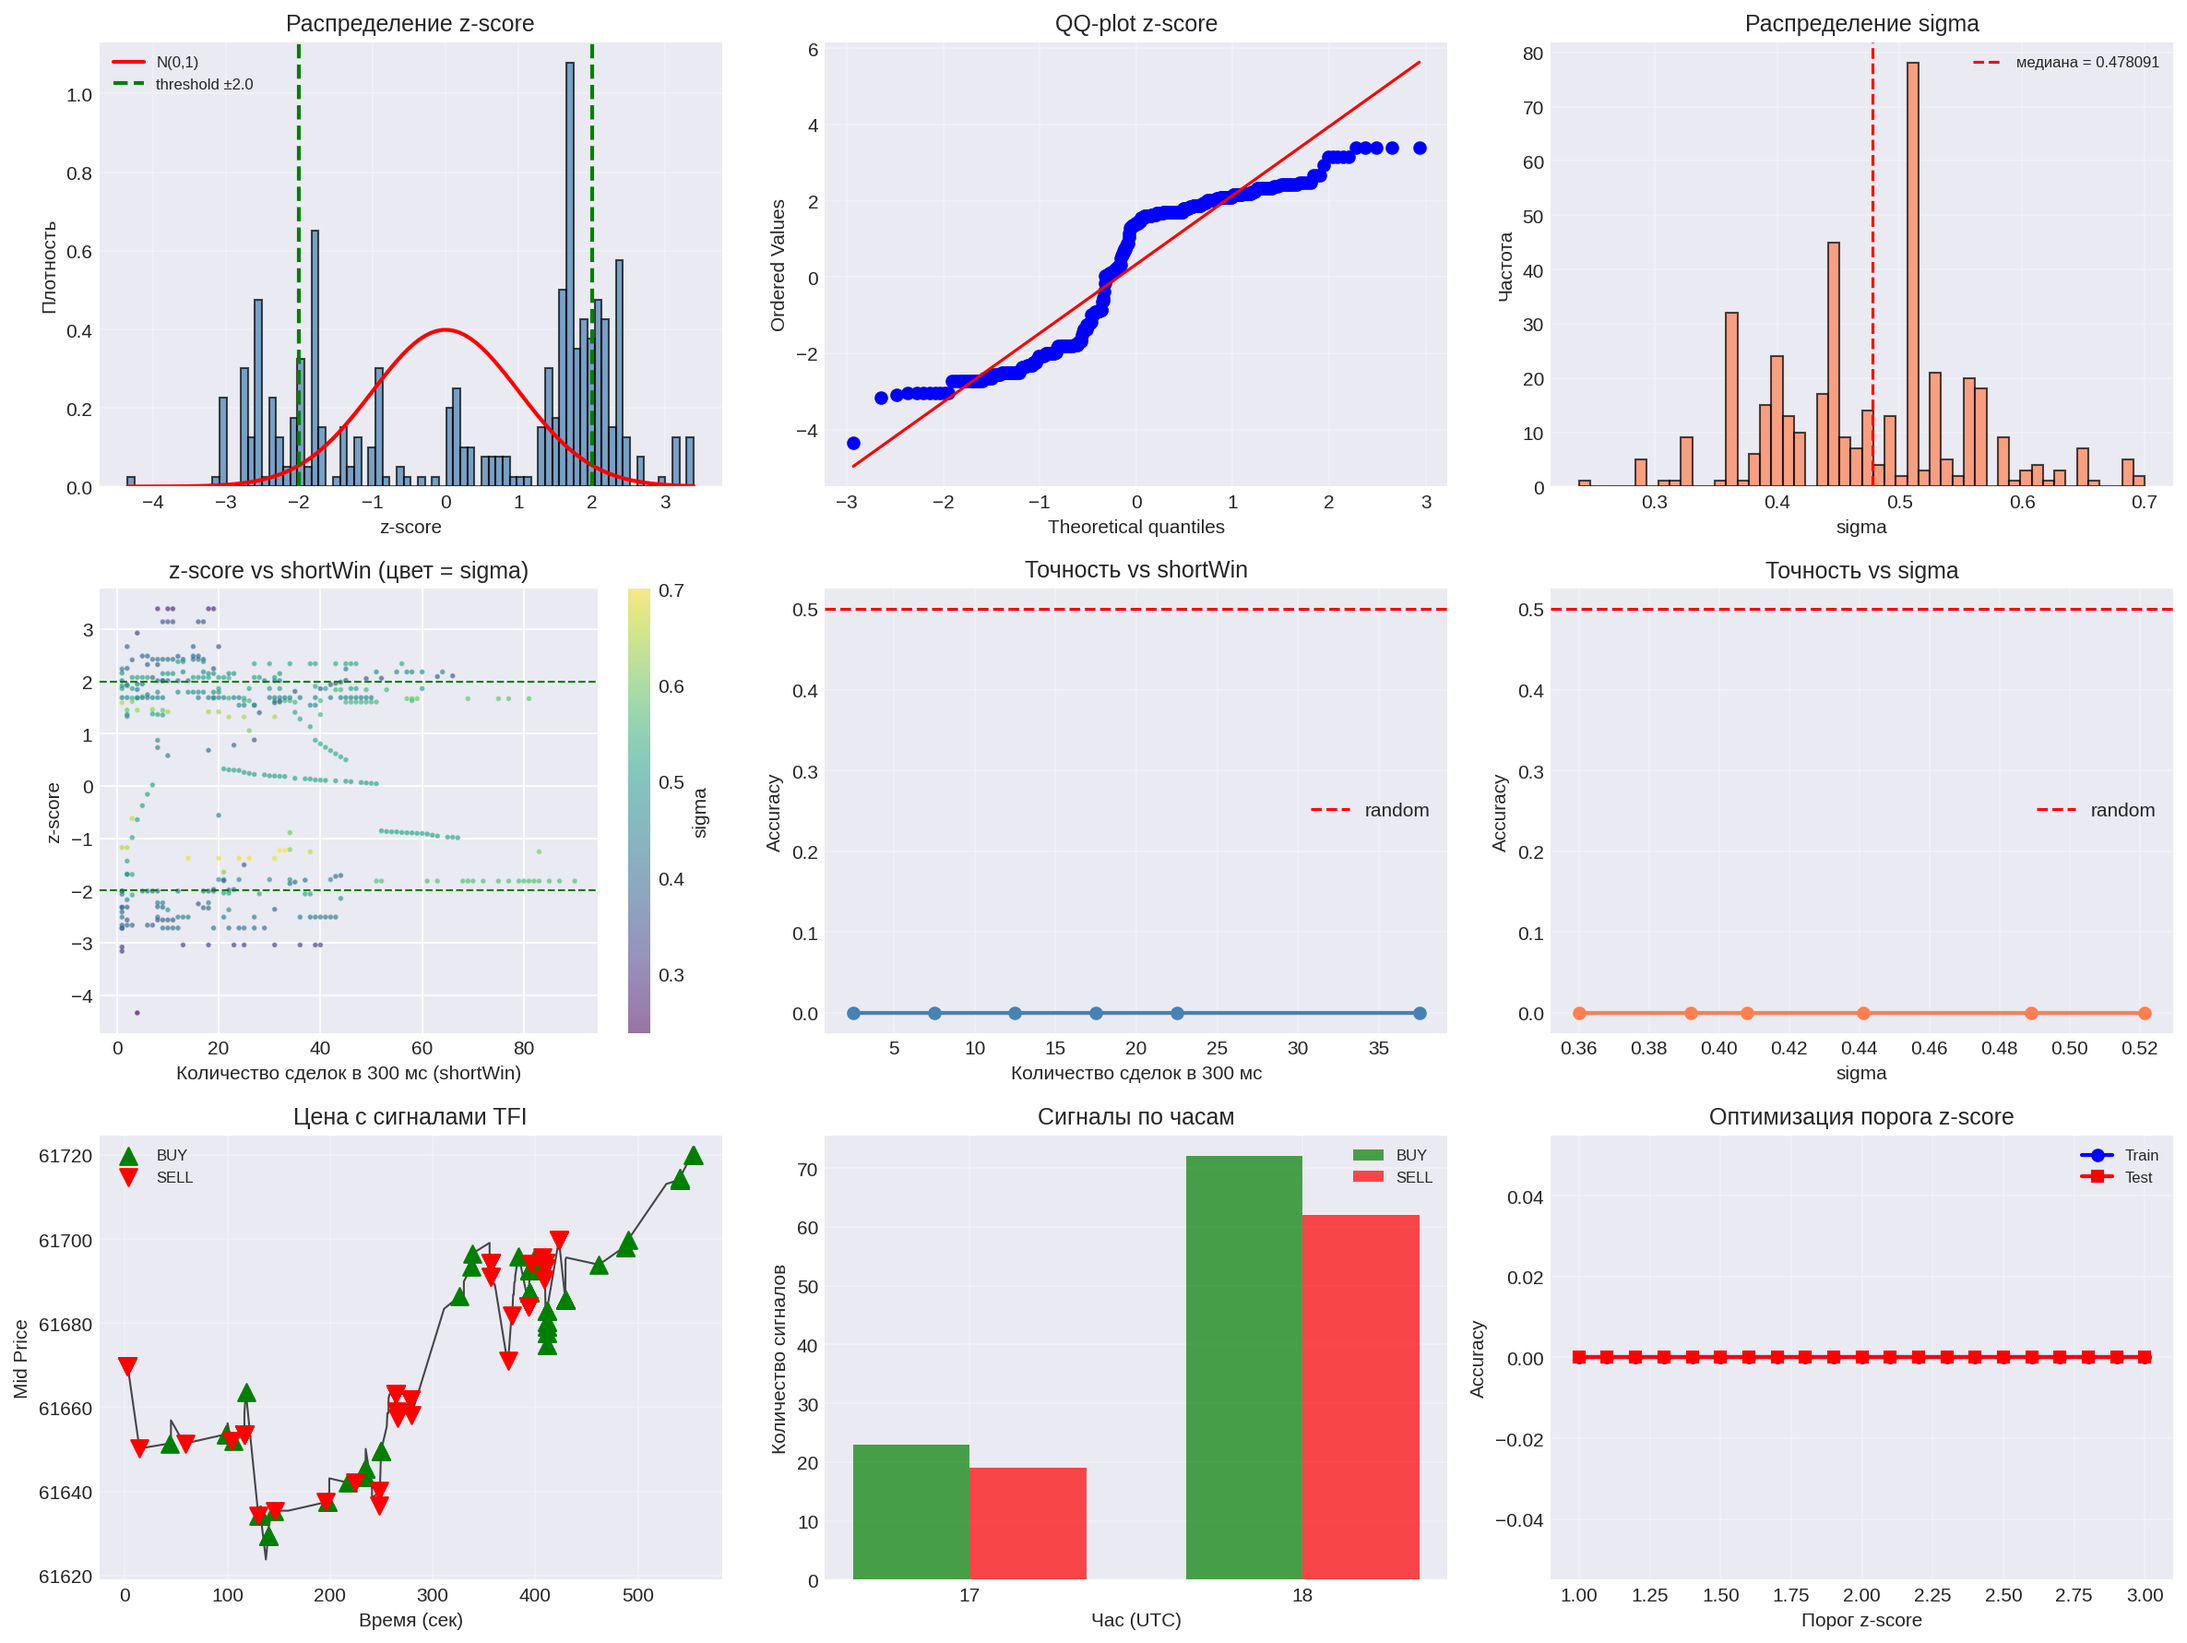
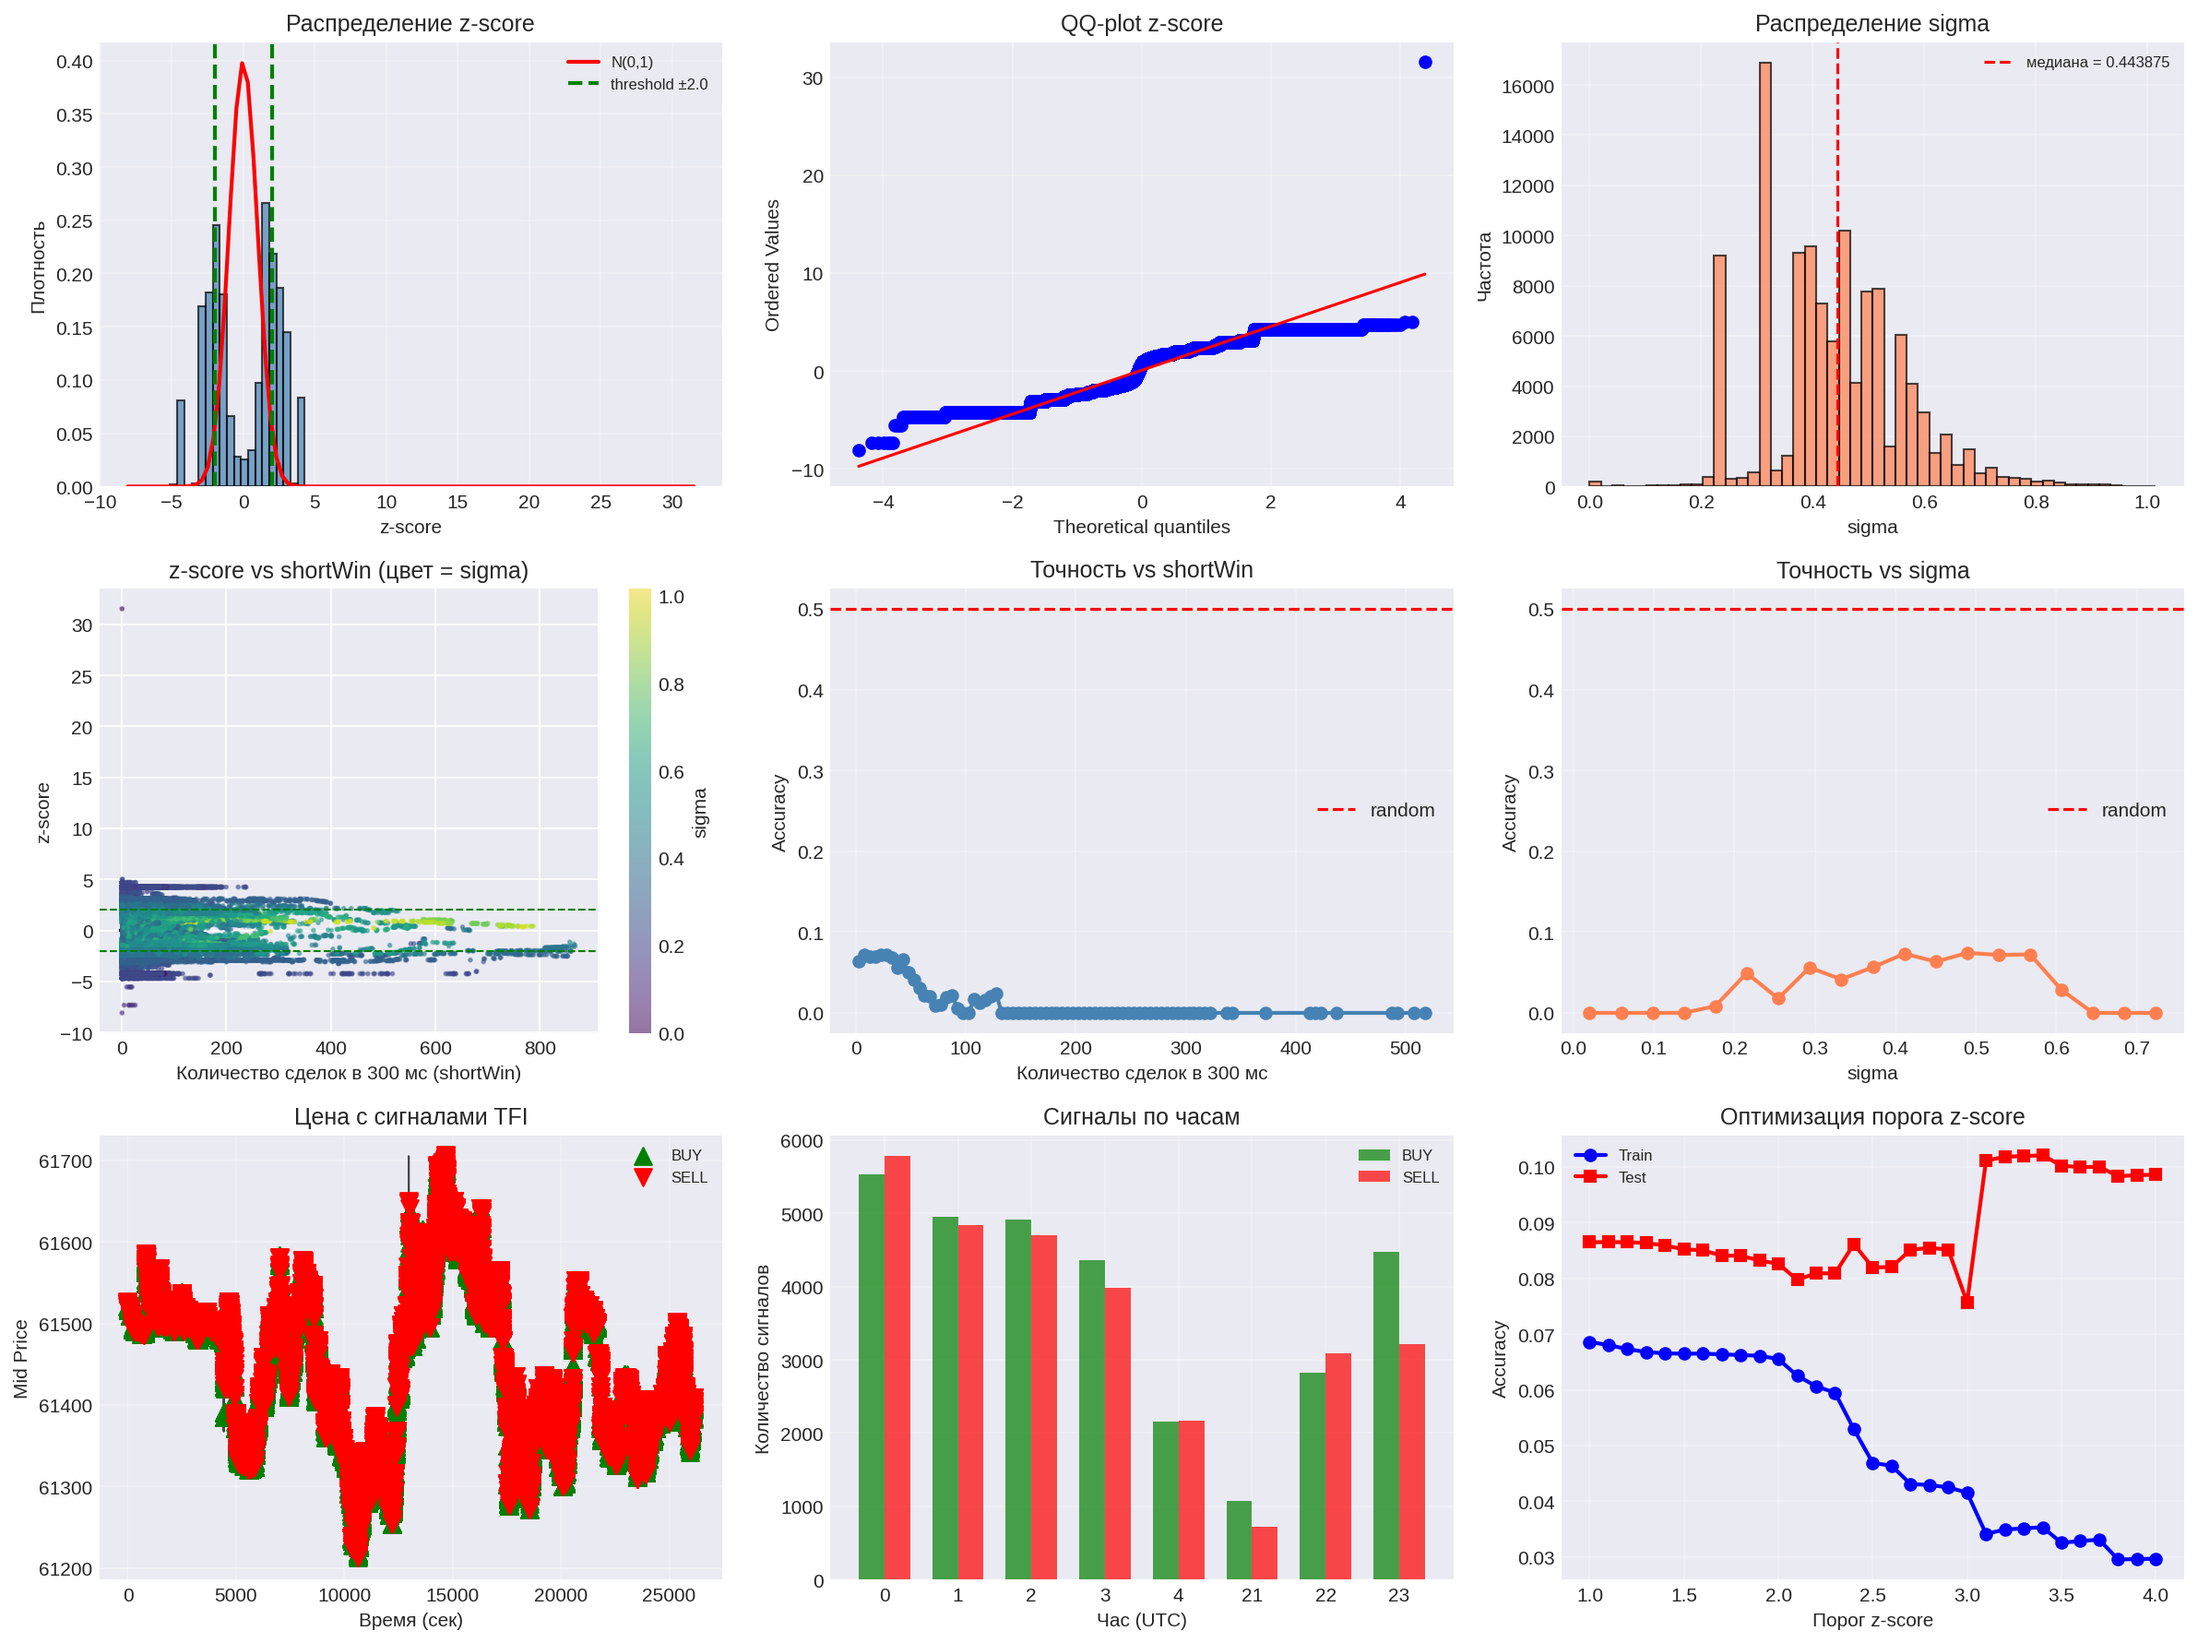
промежуточное

diff --git a/connection_manager/connection_manager.cpp b/connection_manager/connection_manager.cpp
@@ -119,7 +119,15 @@ void ConnectionManager::subscribeStrategy(BaseTradingStrategy *tradingStrategy) 
 
 ssl::context ConnectionManager::createSSLContext() {
     ssl::context ctx(ssl::context::tlsv12_client);
+#ifdef _WIN32
+    boost::system::error_code ec;
+    ctx.load_verify_file("cacert.pem", ec);
+    if (ec) {
+        std::cerr << "Can't load cacert.pem: " << ec.message() << std::endl;
+    }
+#else
     ctx.set_default_verify_paths(); // загружаем системные CA сертификаты
+#endif
     // Верифицируем сертификат сервера (обязательно для продакшена)
     ctx.set_verify_mode(ssl::verify_peer);
     // ctx.set_options(ssl::context::no_compression); // Для HFT

diff --git a/decoder/decoder_TFI.py b/decoder/decoder_TFI.py
@@ -196,7 +196,7 @@ print("=" * 60)
 
 TARGET_MOVE = 0.0020  # 0.20%
 MAX_DD = 0.0040       # 0.40%
-HORIZON = 120         # 2 минуты
+HORIZON = 420         # 7 минут
 
 buy_res = analyze_signals(df_clean, 1, HORIZON, TARGET_MOVE, MAX_DD)
 sell_res = analyze_signals(df_clean, 2, HORIZON, TARGET_MOVE, MAX_DD)
@@ -534,7 +534,7 @@ print("\n" + "=" * 60)
 print("АНАЛИЗ ДЛЯ РАЗНЫХ ГОРИЗОНТОВ")
 print("=" * 60)
 
-horizons = [60, 120, 180]
+horizons = [180, 240, 300, 360, 420, 480]
 targets = [0.0015, 0.0020, 0.0025]
 
 print("\nAccuracy для разных горизонтов и целей:")
